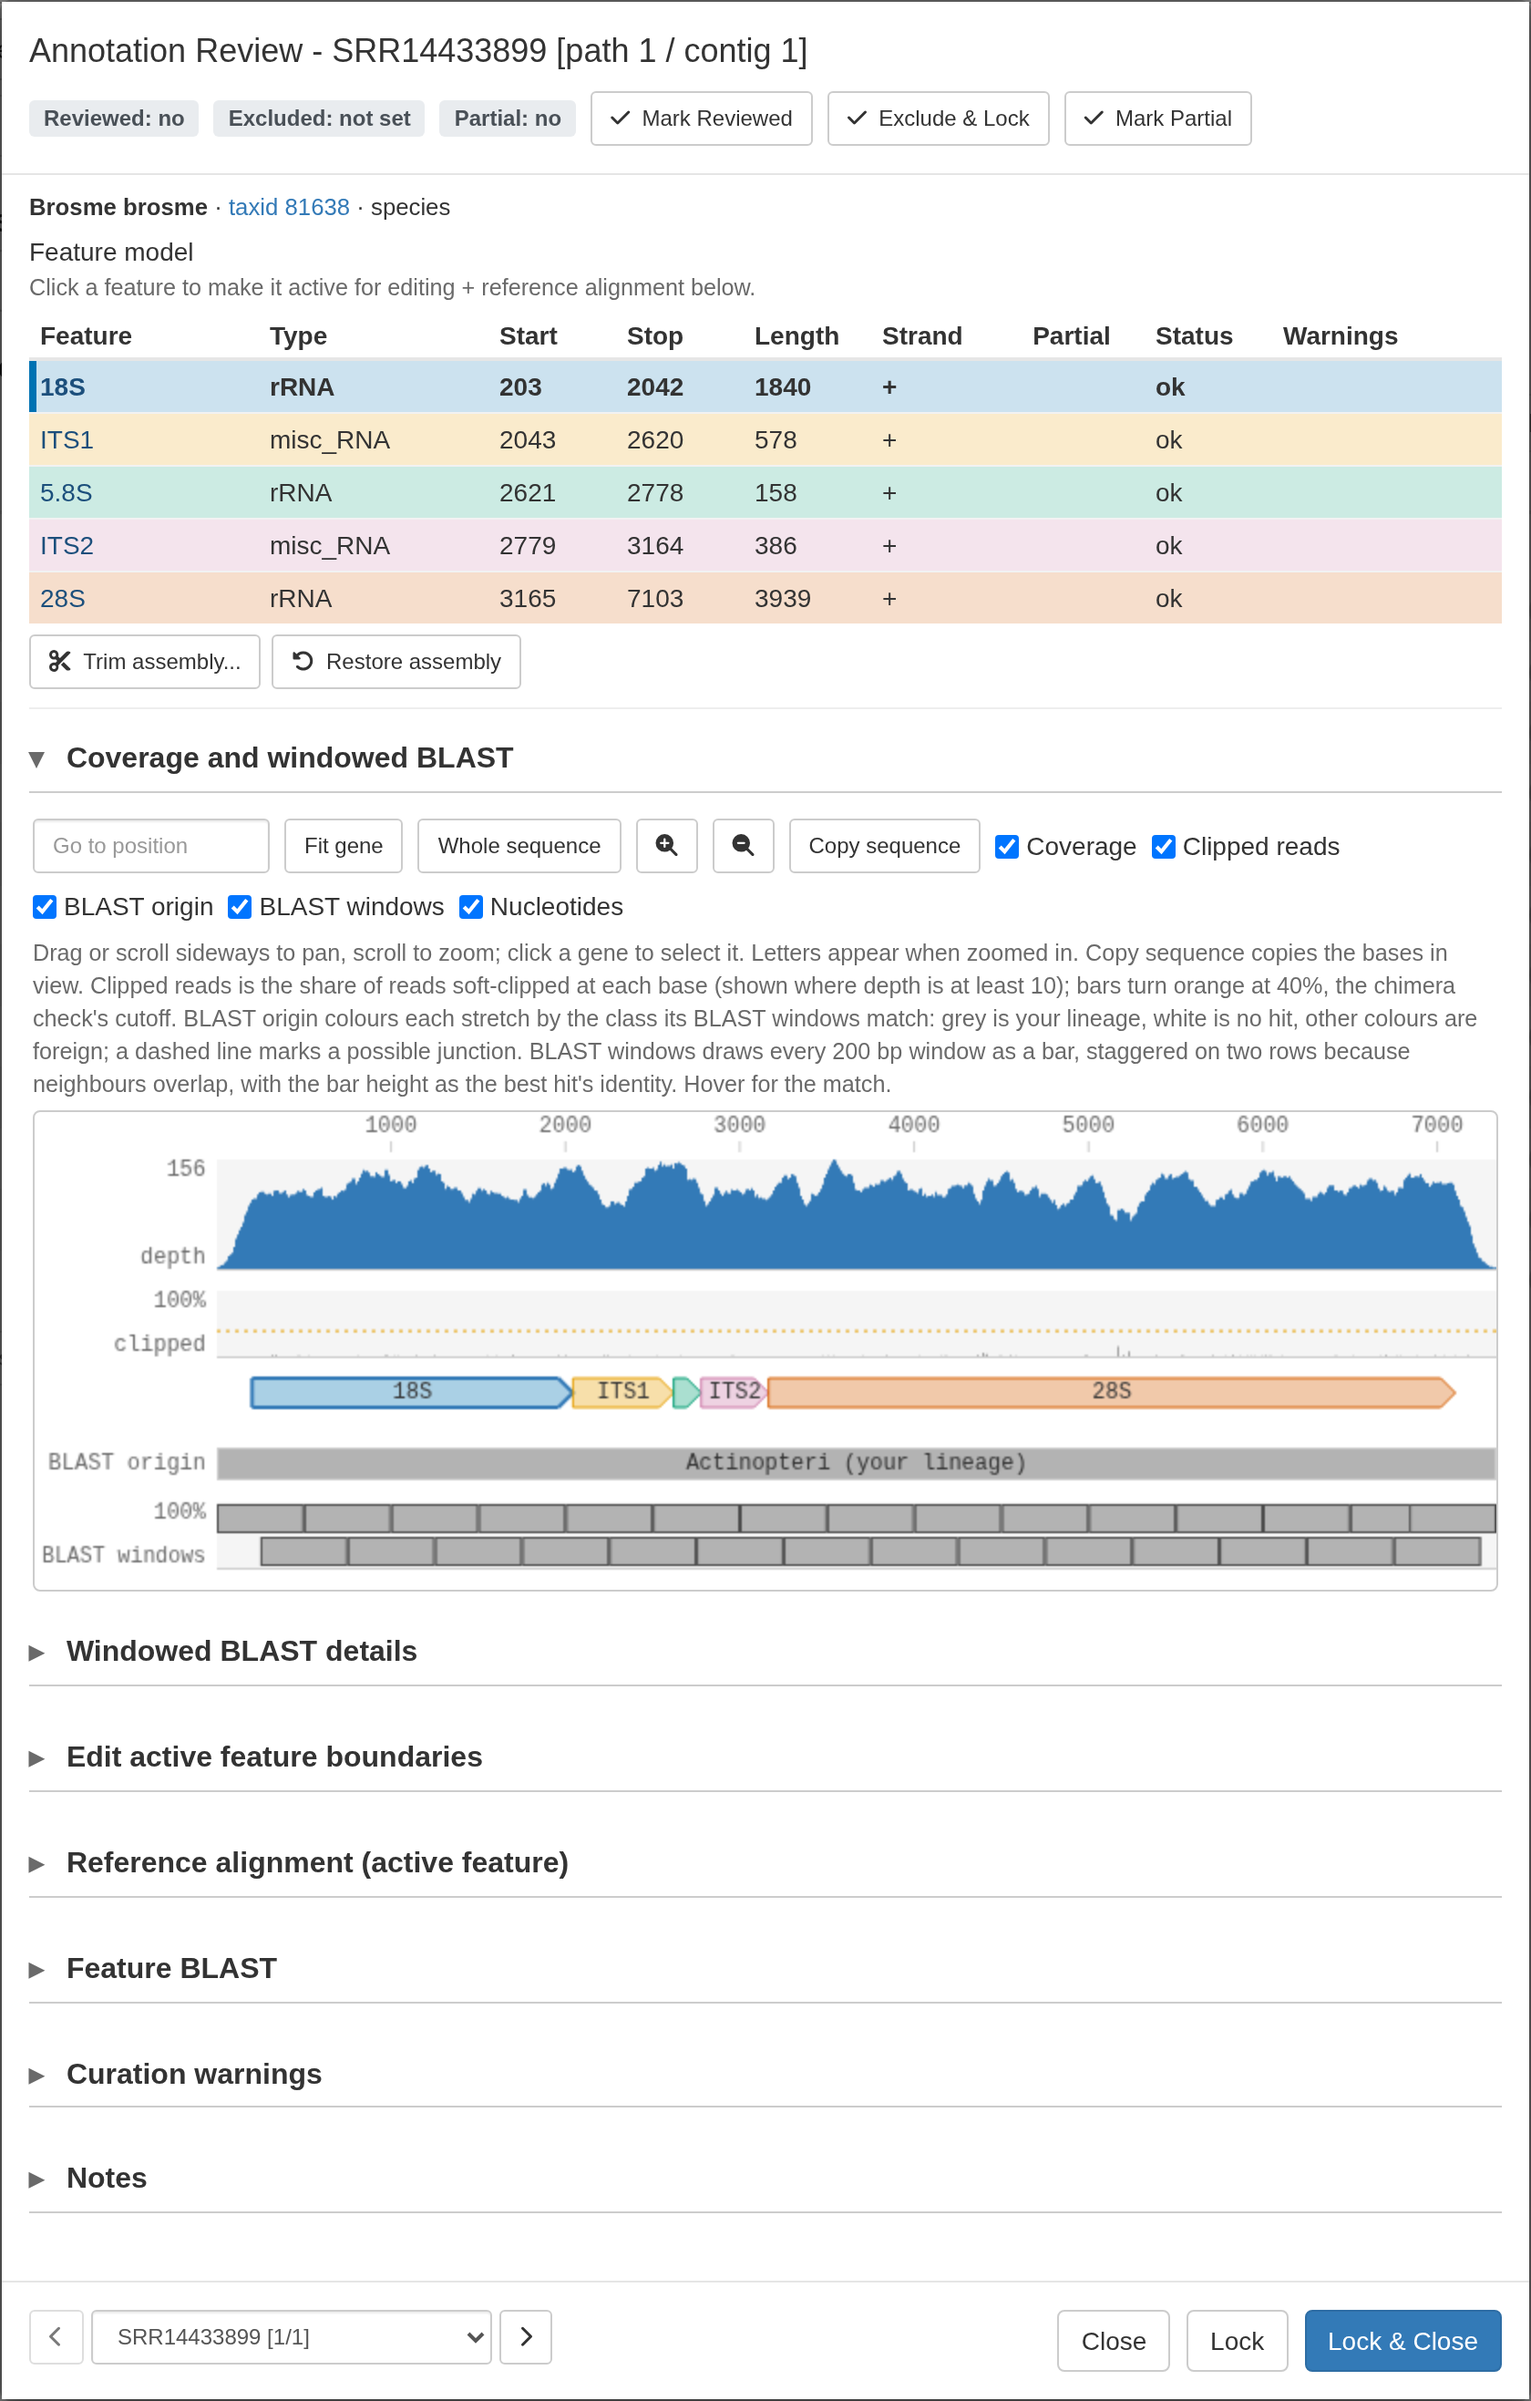
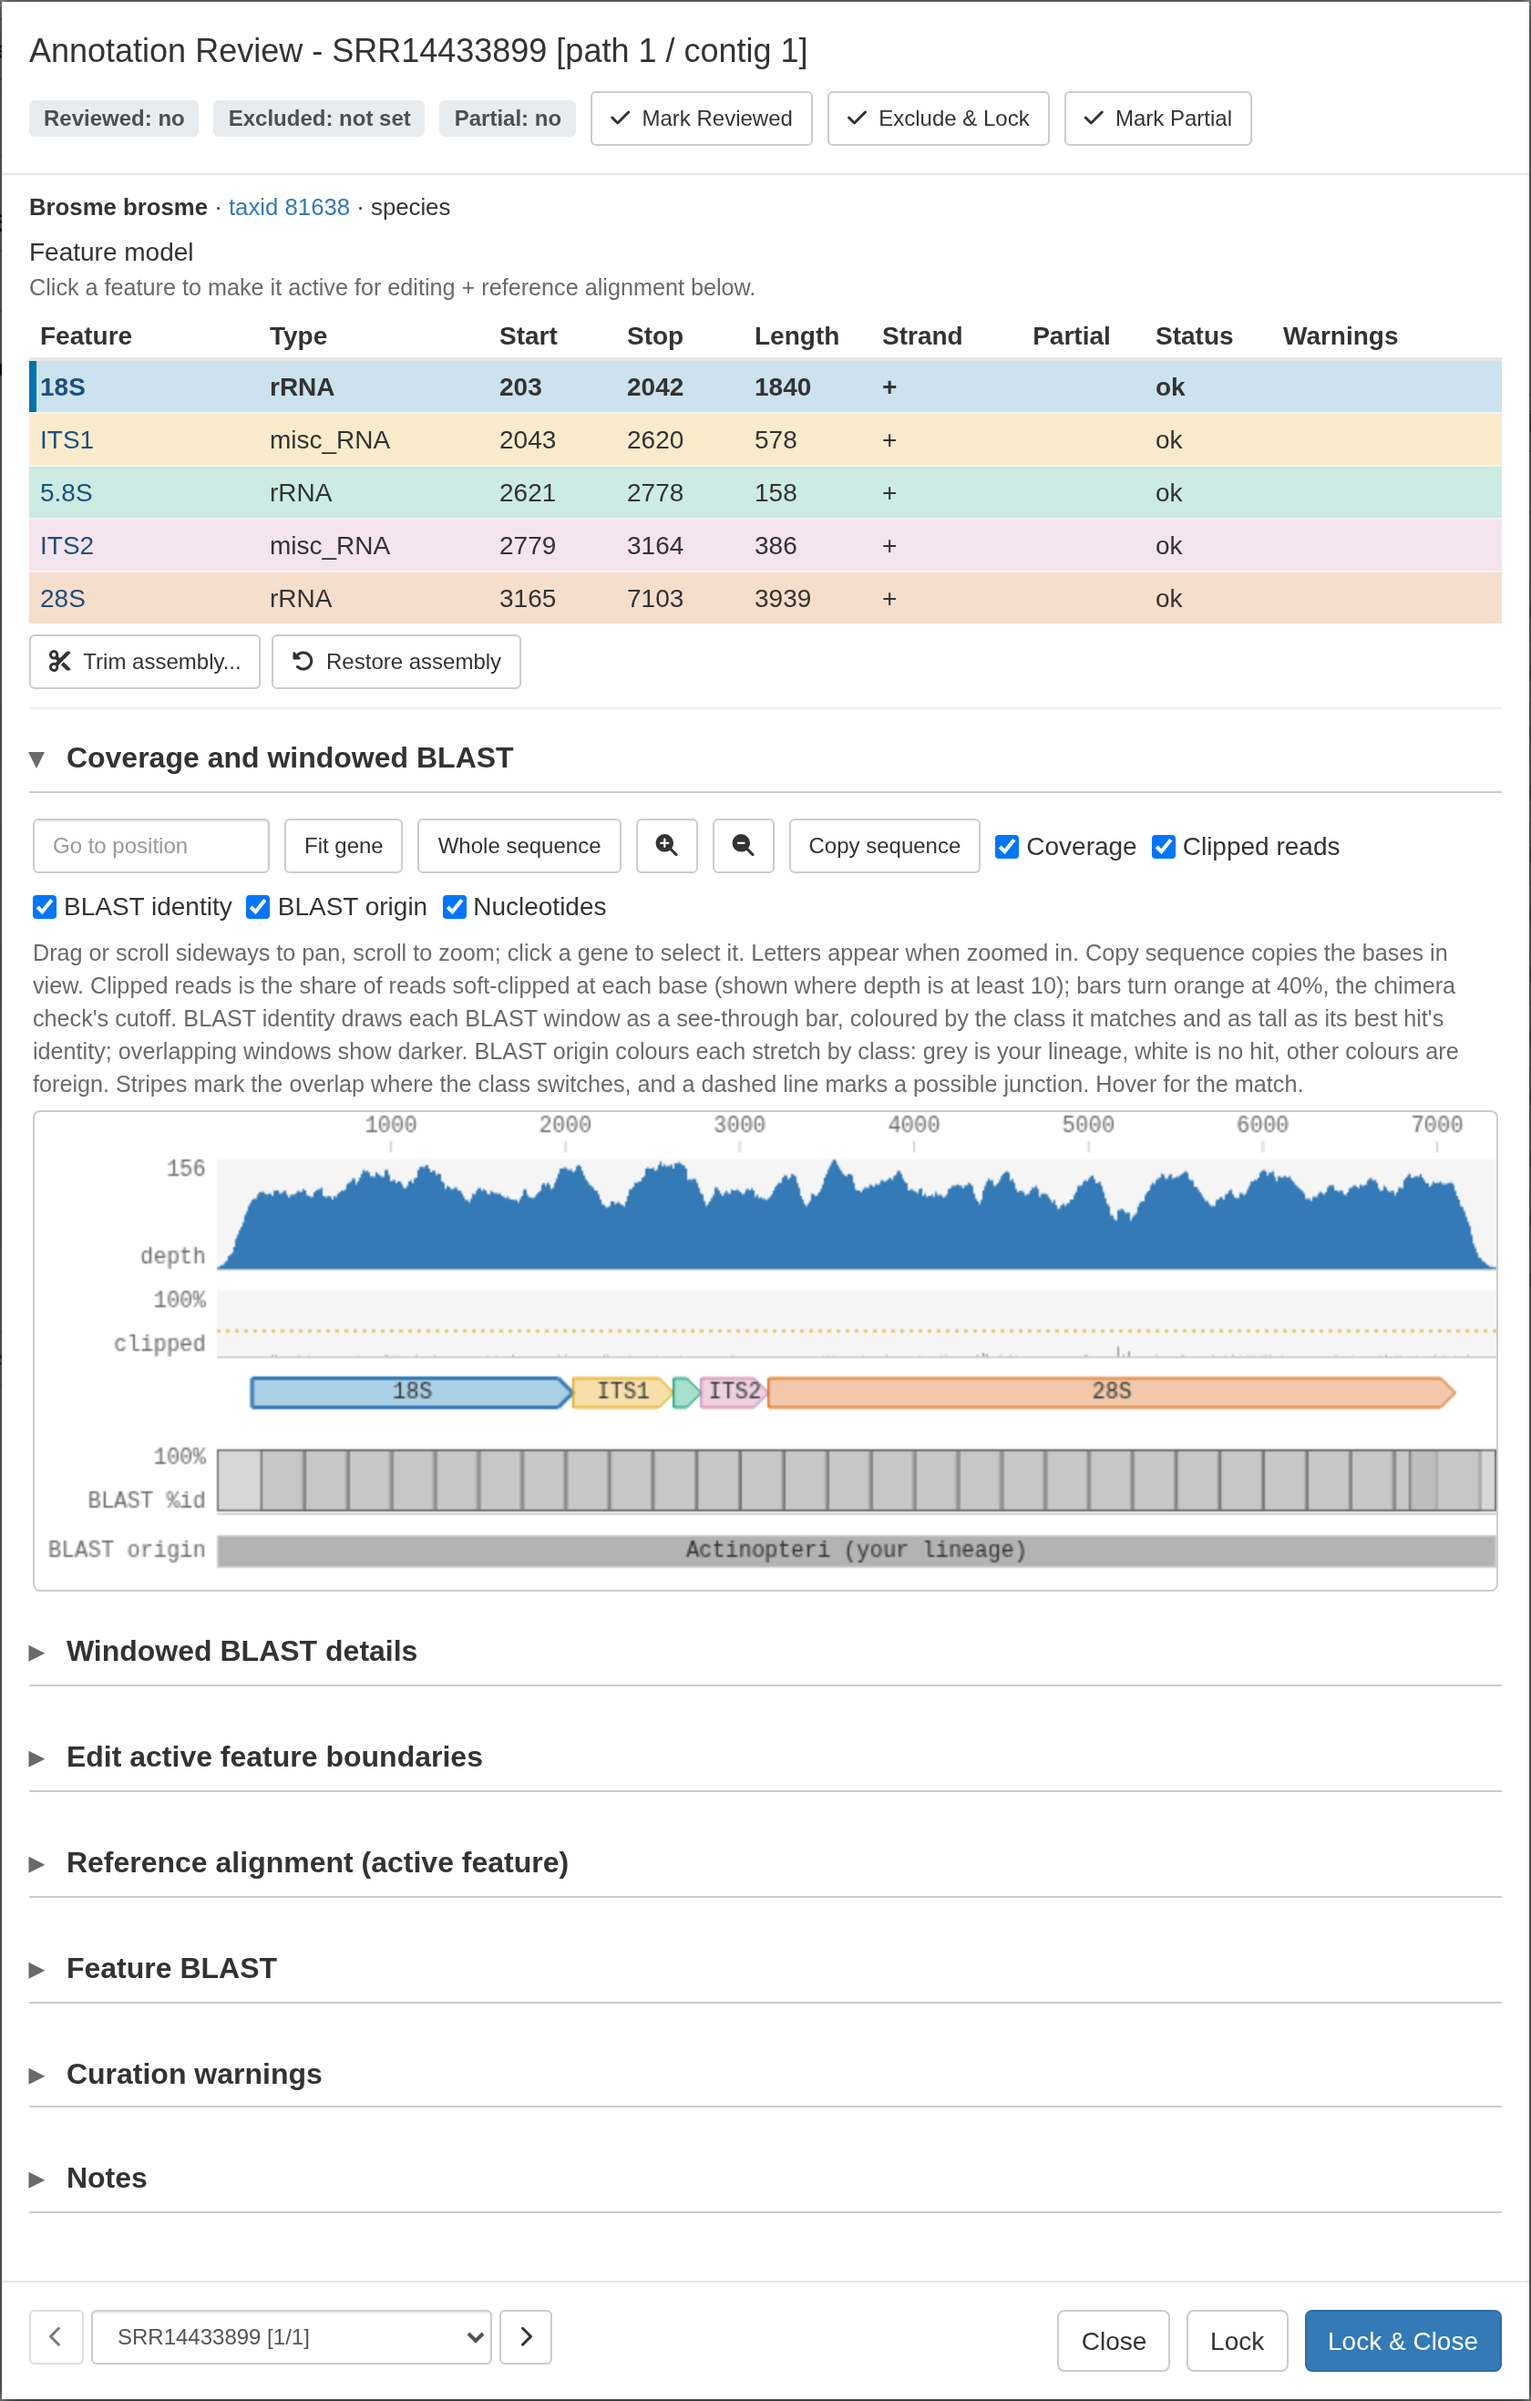
Viewer: striped overlaps on the origin band, translucent per-window identity bars
Claude-Session: https://claude.ai/code/session_01WuBcZavay7LnqugVqKux6E

Changed region(s): [[0.031, 0.5915, 0.9905, 0.6538], [0.031, 0.3736, 0.9286, 0.467]]

diff --git a/inst/app/www/seqviewer.js b/inst/app/www/seqviewer.js
@@ -41,7 +41,7 @@
   'use strict';
   var G = window.rpseq.geom;
   var MAX_PPB = 14, NT_LETTER = 8, NT_BAR = 3;
-  var RULER_H = 22, LANE_H = 22, NT_H = 20, GUTTER = 100, PAD = 4, COV_H = 60, CLIP_H = 36, WIN_ROW = 18, ORIGIN_H = 18, GAP = 12;
+  var RULER_H = 22, LANE_H = 22, NT_H = 20, GUTTER = 100, PAD = 4, COV_H = 60, CLIP_H = 36, IDENT_H = 36, ORIGIN_H = 18, GAP = 12;
   var BASE = { A: '#4faf45', C: '#e0a53f', G: '#e0555a', T: '#4a90d9', N: '#666666' };
   var viewers = {}, last = {};
 
@@ -136,7 +136,7 @@
   // ---- drawing ----
   Viewer.prototype.covOn = function () { return this.showCov && !!this.depth; };
   Viewer.prototype.clipOn = function () { return this.showClip && !!this.clip; };
-  Viewer.prototype.winOn = function () { return this.showWin && !!this.windows; };
+  Viewer.prototype.identOn = function () { return this.showIdent && !!this.windows; };
   Viewer.prototype.originOn = function () { return this.showOrigin && !!this.origin; };
   Viewer.prototype.ntOn = function () { return this.showNt && this.ppb >= NT_BAR; };
   Viewer.prototype.topH = function () {
@@ -148,7 +148,7 @@
     return this.topH() + this.nLanes * LANE_H + PAD + (this.ntOn() ? NT_H + PAD : 0) + GAP;
   };
   Viewer.prototype.height = function () {
-    return this.chimY() + (this.originOn() ? ORIGIN_H + GAP : 0) + (this.winOn() ? 2 * WIN_ROW + GAP : 0);
+    return this.chimY() + (this.identOn() ? IDENT_H + GAP : 0) + (this.originOn() ? ORIGIN_H + GAP : 0);
   };
   Viewer.prototype.draw = function () {
     if (!this.len || !this.canvas.offsetParent) return;
@@ -167,8 +167,8 @@
     this.drawLanes(c);
     if (this.ntOn()) this.drawNt(c, this.topH() + this.nLanes * LANE_H + PAD);
     y = this.chimY();
+    if (this.identOn()) { this.drawIdent(c, W, y); y += IDENT_H + GAP; }
     if (this.originOn()) { this.drawOrigin(c, W, y); y += ORIGIN_H + GAP; }
-    if (this.winOn()) { this.drawWindows(c, W, y); y += 2 * WIN_ROW + GAP; }
     this.drawJunctions(c, H);
   };
   Viewer.prototype.drawRuler = function (c) {
@@ -268,17 +268,40 @@
   };
   // One rect per origin segment in its colour, labelled when the label fits
   // the visible part (same rule as the gene lanes).
+  // Two-colour diagonal stripes for the stretch two segments share
+  function stripes(c, a, b) {
+    var off = document.createElement('canvas'); off.width = off.height = 12;
+    var o = off.getContext('2d');
+    o.fillStyle = a; o.fillRect(0, 0, 12, 12);
+    o.fillStyle = b; o.beginPath();
+    o.moveTo(0, 6); o.lineTo(6, 0); o.lineTo(12, 0); o.lineTo(0, 12); o.closePath(); o.fill();
+    o.beginPath(); o.moveTo(6, 12); o.lineTo(12, 6); o.lineTo(12, 12); o.closePath(); o.fill();
+    return c.createPattern(off, 'repeat');
+  }
   Viewer.prototype.drawOrigin = function (c, W, y) {
     c.textAlign = 'center'; c.textBaseline = 'middle';
-    this.origin.forEach(function (s) {
+    var segs = this.origin, border = cssVar('--mp-border', '#ccc');
+    segs.forEach(function (s, i) {
       if (!this.inView(s)) return;
+      // label the part this segment does not share with its neighbours
+      var prev = segs[i - 1], next = segs[i + 1];
+      var l0 = prev && prev.pos2 >= s.pos1 ? prev.pos2 + 1 : s.pos1, l1 = next && next.pos1 <= s.pos2 ? next.pos1 - 1 : s.pos2;
       var x0 = Math.max(GUTTER, this.x(s.pos1)), x1 = Math.min(W, this.x(s.pos2 + 1));
       if (x1 - x0 < 1) return;
       c.fillStyle = s.color; c.fillRect(x0, y, x1 - x0, ORIGIN_H);
-      c.strokeStyle = cssVar('--mp-border', '#ccc'); c.strokeRect(x0 + 0.5, y + 0.5, x1 - x0 - 1, ORIGIN_H - 1);
+      c.strokeStyle = border; c.strokeRect(x0 + 0.5, y + 0.5, x1 - x0 - 1, ORIGIN_H - 1);
+      var lx0 = Math.max(GUTTER, this.x(l0)), lx1 = Math.min(W, this.x(l1 + 1));
       var full = originText(s), short = s.taxon === 'nohit' ? 'no hit' : s.taxon;
-      var lab = x1 - x0 > c.measureText(full).width + 8 ? full : x1 - x0 > c.measureText(short).width + 8 ? short : null;
-      if (lab) { c.fillStyle = '#333'; c.fillText(lab, (x0 + x1) / 2, y + ORIGIN_H / 2); }
+      var lab = lx1 - lx0 > c.measureText(full).width + 8 ? full : lx1 - lx0 > c.measureText(short).width + 8 ? short : null;
+      if (lab) { c.fillStyle = '#333'; c.fillText(lab, (lx0 + lx1) / 2, y + ORIGIN_H / 2); }
+    }, this);
+    segs.forEach(function (s, i) {
+      var n = segs[i + 1];
+      if (!n || n.pos1 > s.pos2 || n.color === s.color) return;
+      var x0 = Math.max(GUTTER, this.x(n.pos1)), x1 = Math.min(W, this.x(s.pos2 + 1));
+      if (x1 - x0 < 1) return;
+      c.fillStyle = stripes(c, s.color, n.color); c.fillRect(x0, y, x1 - x0, ORIGIN_H);
+      c.strokeStyle = border; c.strokeRect(x0 + 0.5, y + 0.5, x1 - x0 - 1, ORIGIN_H - 1);
     }, this);
     c.fillStyle = cssVar('--mp-text-muted', '#6a6a6a'); c.textAlign = 'right';
     c.fillText('BLAST origin', GUTTER - 6, y + ORIGIN_H / 2, GUTTER - 10);
@@ -293,32 +316,32 @@
     }, this);
     c.restore();
   };
-  // Every BLAST window as a bar: height is the best hit's identity from 70 to
-  // 100%, colour its class. Neighbours overlap by half, so odd and even windows
-  // alternate rows like brickwork; a no-hit window is an empty full-height box.
-  Viewer.prototype.drawWindows = function (c, W, y) {
-    var H = 2 * WIN_ROW, muted = cssVar('--mp-text-muted', '#6a6a6a');
-    c.fillStyle = cssVar('--mp-surface-alt', '#f5f5f5'); c.fillRect(GUTTER, y, W - GUTTER, H);
+  // Every BLAST window as a see-through bar at its own coordinates: colour is
+  // its class, height its best hit's identity from 70 to 100%. Overlapping
+  // windows stack and show darker; a no-hit window is an empty box.
+  Viewer.prototype.drawIdent = function (c, W, y) {
+    var muted = cssVar('--mp-text-muted', '#6a6a6a');
+    c.fillStyle = cssVar('--mp-surface-alt', '#f5f5f5'); c.fillRect(GUTTER, y, W - GUTTER, IDENT_H);
     c.strokeStyle = cssVar('--rp-ident-stroke', '#4d4d4d'); c.lineWidth = 1;
-    this.windows.forEach(function (w, i) {
+    this.windows.forEach(function (w) {
       if (!this.inView(w)) return;
       var x0 = Math.max(GUTTER, this.x(w.pos1)), x1 = Math.min(W, this.x(w.pos2 + 1));
       if (x1 - x0 < 1) return;
-      var top = y + (i % 2) * WIN_ROW, h = w.pident === null || w.pident === undefined ? WIN_ROW - 2
-        : Math.max(2, (w.pident - 70) / 30 * (WIN_ROW - 2));
-      c.fillStyle = w.color; c.fillRect(x0, top + WIN_ROW - 1 - h, x1 - x0, h);
-      c.strokeRect(x0 + 0.5, top + WIN_ROW - 1 - h + 0.5, x1 - x0 - 1, h - 1);
+      var h = w.pident === null || w.pident === undefined ? IDENT_H - 2 : Math.max(2, (w.pident - 70) / 30 * (IDENT_H - 2));
+      c.globalAlpha = 0.45; c.fillStyle = w.color; c.fillRect(x0, y + IDENT_H - 1 - h, x1 - x0, h);
+      c.globalAlpha = 0.7; c.strokeRect(x0 + 0.5, y + IDENT_H - 1 - h + 0.5, x1 - x0 - 1, h - 1);
+      c.globalAlpha = 1;
     }, this);
-    c.strokeStyle = cssVar('--mp-border', '#ccc'); c.beginPath(); c.moveTo(GUTTER, y + H + 0.5); c.lineTo(W, y + H + 0.5); c.stroke();
+    c.strokeStyle = cssVar('--mp-border', '#ccc'); c.beginPath(); c.moveTo(GUTTER, y + IDENT_H + 0.5); c.lineTo(W, y + IDENT_H + 0.5); c.stroke();
     c.fillStyle = muted; c.textAlign = 'right';
     c.textBaseline = 'top'; c.fillText('100%', GUTTER - 6, y);
-    c.textBaseline = 'bottom'; c.fillText('BLAST windows', GUTTER - 6, y + H, GUTTER - 10);
+    c.textBaseline = 'bottom'; c.fillText('BLAST %id', GUTTER - 6, y + IDENT_H, GUTTER - 10);
   };
   Viewer.prototype.windowsAt = function (pos) {
     return (this.windows || []).filter(function (w) { return pos >= w.pos1 && pos <= w.pos2; });
   };
-  Viewer.prototype.originAt = function (pos) {
-    return (this.origin || []).find(function (s) { return pos >= s.pos1 && pos <= s.pos2; }) || null;
+  Viewer.prototype.originsAt = function (pos) {
+    return (this.origin || []).filter(function (s) { return pos >= s.pos1 && pos <= s.pos2; });
   };
   function originText(s) {
     if (s.host) return s.taxon + ' (your lineage)';
@@ -402,9 +425,8 @@
       if (self.covOn() && self.depth[b.pos - 1] !== null) t += ' | depth ' + self.depth[b.pos - 1];
       if (self.clipOn() && self.clip[b.pos - 1] !== null) t += ', clipped ' + (self.clip[b.pos - 1] * 100).toFixed(0) + '%';
       if (h) t += ' | ' + h.f.gene + ' ' + h.f.pos1.toLocaleString() + '-' + h.f.pos2.toLocaleString() + ' (' + h.f.dir + ')';
-      var o = self.originOn() && self.originAt(b.pos);
-      if (o) t += ' | ' + originText(o);
-      if (self.winOn()) self.windowsAt(b.pos).forEach(function (w) {
+      if (self.originOn()) { var os = self.originsAt(b.pos).map(originText); if (os.length) t += ' | ' + os.join(os.length > 1 ? ' or ' : ''); }
+      if (self.identOn()) self.windowsAt(b.pos).forEach(function (w) {
         t += ' | window ' + w.pos1.toLocaleString() + '-' + w.pos2.toLocaleString() + ': ' + originText(w);
       });
       var j = (self.junctions || []).find(function (q) { return Math.abs(self.x(q.pos) - px) <= 6; });
@@ -427,7 +449,7 @@
         }
       });
     });
-    [['show_nt', 'showNt'], ['show_cov', 'showCov'], ['show_clip', 'showClip'], ['show_win', 'showWin'],
+    [['show_nt', 'showNt'], ['show_cov', 'showCov'], ['show_clip', 'showClip'], ['show_ident', 'showIdent'],
      ['show_origin', 'showOrigin']].forEach(function (pair) {
       var box = document.getElementById(prefix + '-' + pair[0]);
       if (box) { self[pair[1]] = box.checked; box.addEventListener('change', function () { self[pair[1]] = box.checked; self.draw(); }); }

diff --git a/NEWS.md b/NEWS.md
@@ -49,11 +49,11 @@
 
 * The chimera evidence now lives in the sequence viewer of the Assemble and
   Annotation Review windows: a **BLAST origin** band colours each stretch by the
-  class its BLAST windows match (grey is the sample's own lineage), a **BLAST
-  windows** track draws every window as a bar in the same colour with its
-  identity as the height, staggered on two rows because neighbours overlap, and
-  dashed lines mark possible junctions. Hover for the match. The static chimera
-  plot is gone.
+  class its BLAST windows match (grey is the sample's own lineage) and stripes
+  the overlap where the class switches, a **BLAST identity** track draws every
+  window as a see-through bar in the same colour with its identity as the
+  height, and dashed lines mark possible junctions. Hover for the match. The
+  static chimera plot is gone.
 * The Windowed BLAST details panel shows the reason under the call instead of on hover,
   says "not run" after a trim, and lists windows under their segment. Clicking
   a segment, window, or junction row zooms the viewer to it. On the Assemble
